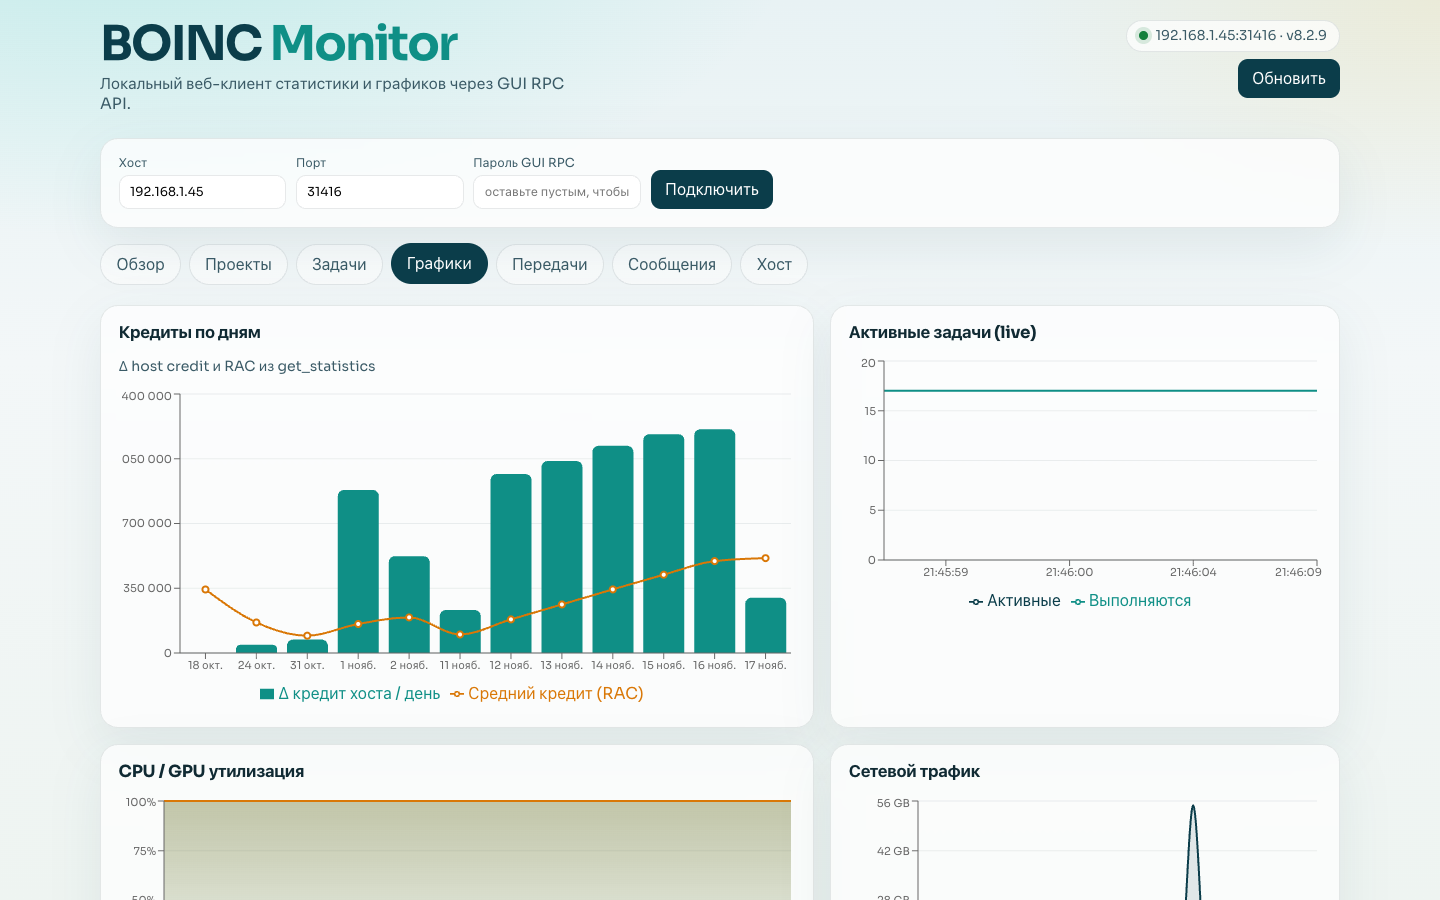
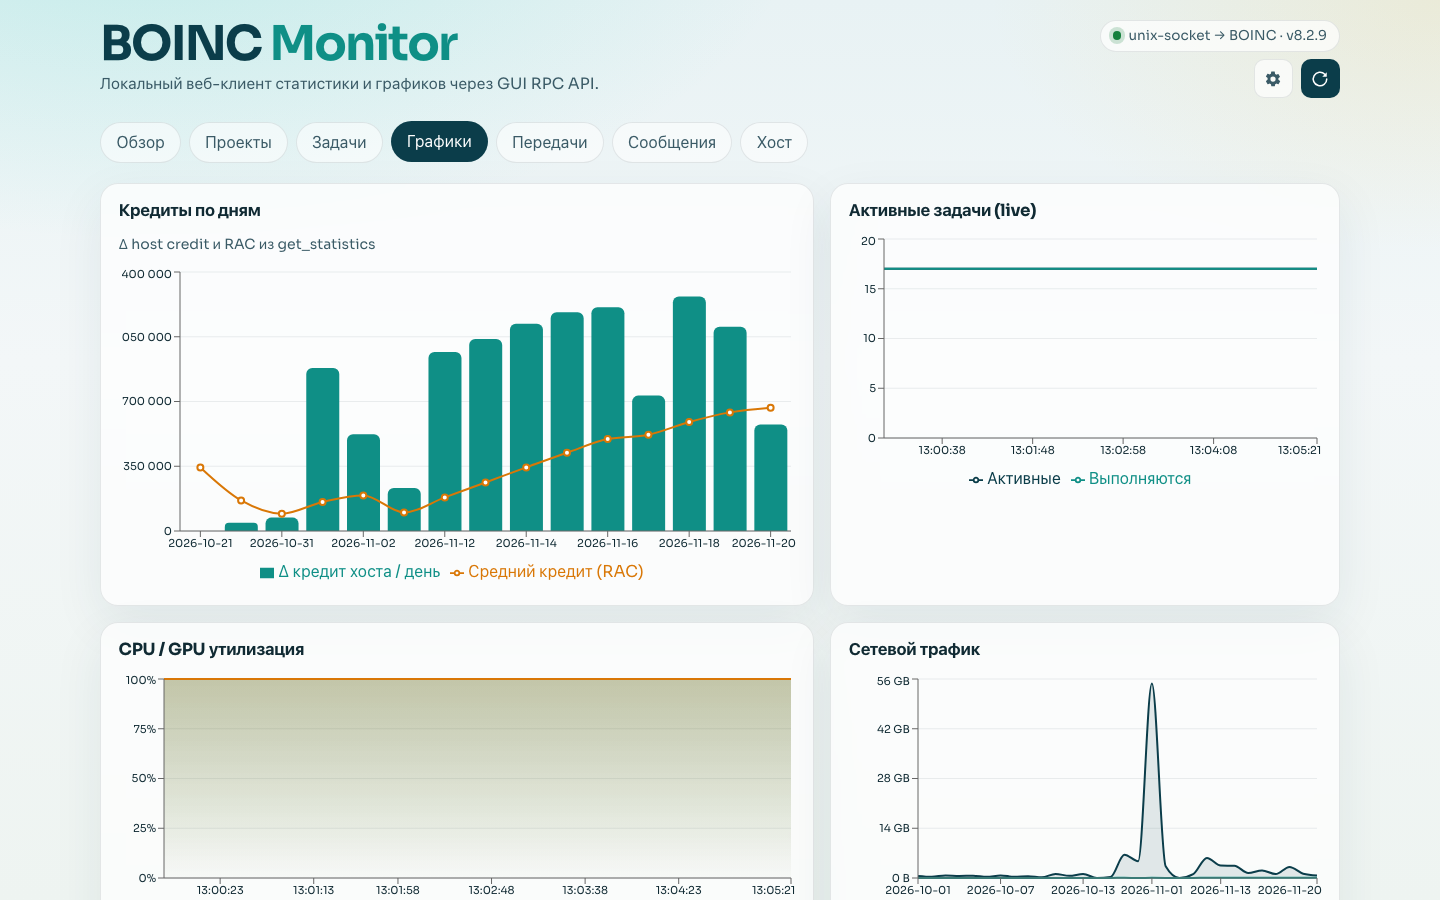
Refresh README screenshots and scrub host identifiers
Replace docs images with current UI (hostname redacted to boinc-host),
remove LAN IPs/hostname from README and defaults, generic systemd path.

diff --git a/client/src/App.jsx b/client/src/App.jsx
@@ -39,7 +39,7 @@ export default function App() {
   const [data, setData] = useState(null);
   const [error, setError] = useState(null);
   const [loading, setLoading] = useState(true);
-  const [cfg, setCfg] = useState({ host: '192.168.1.45', port: 31416, password: '' });
+  const [cfg, setCfg] = useState({ host: '127.0.0.1', port: 31416, password: '' });
   const [settingsOpen, setSettingsOpen] = useState(false);
   const [selectedTask, setSelectedTask] = useState(null);
   const [selectedProject, setSelectedProject] = useState(null);
@@ -154,7 +154,7 @@ export default function App() {
             <input
               value={cfg.host}
               onChange={(e) => setCfg({ ...cfg, host: e.target.value })}
-              placeholder="192.168.1.45"
+              placeholder="127.0.0.1"
             />
           </label>
           <label>

diff --git a/README.md b/README.md
@@ -17,8 +17,7 @@ cp .env.example .env   # задайте BOINC_PASSWORD
 docker compose up -d --build
 ```
 
-Браузер: **http://\<хост\>:8080**  
-(на foxweb-pc: http://192.168.1.45:8080)
+Браузер: **http://localhost:8080** (или `http://your-boinc-host:8080` в LAN).
 
 ```bash
 docker compose logs -f    # логи
@@ -46,6 +45,7 @@ RPC: `exchange_versions`, `get_host_info`, `get_cc_status`, `get_project_status`
 ## Опционально: systemd (нужен sudo)
 
 ```bash
+# WorkingDirectory в unit: путь к клону репозитория
 sudo cp deploy/boinc-monitor.service /etc/systemd/system/
 sudo systemctl daemon-reload
 sudo systemctl enable --now boinc-monitor.service
